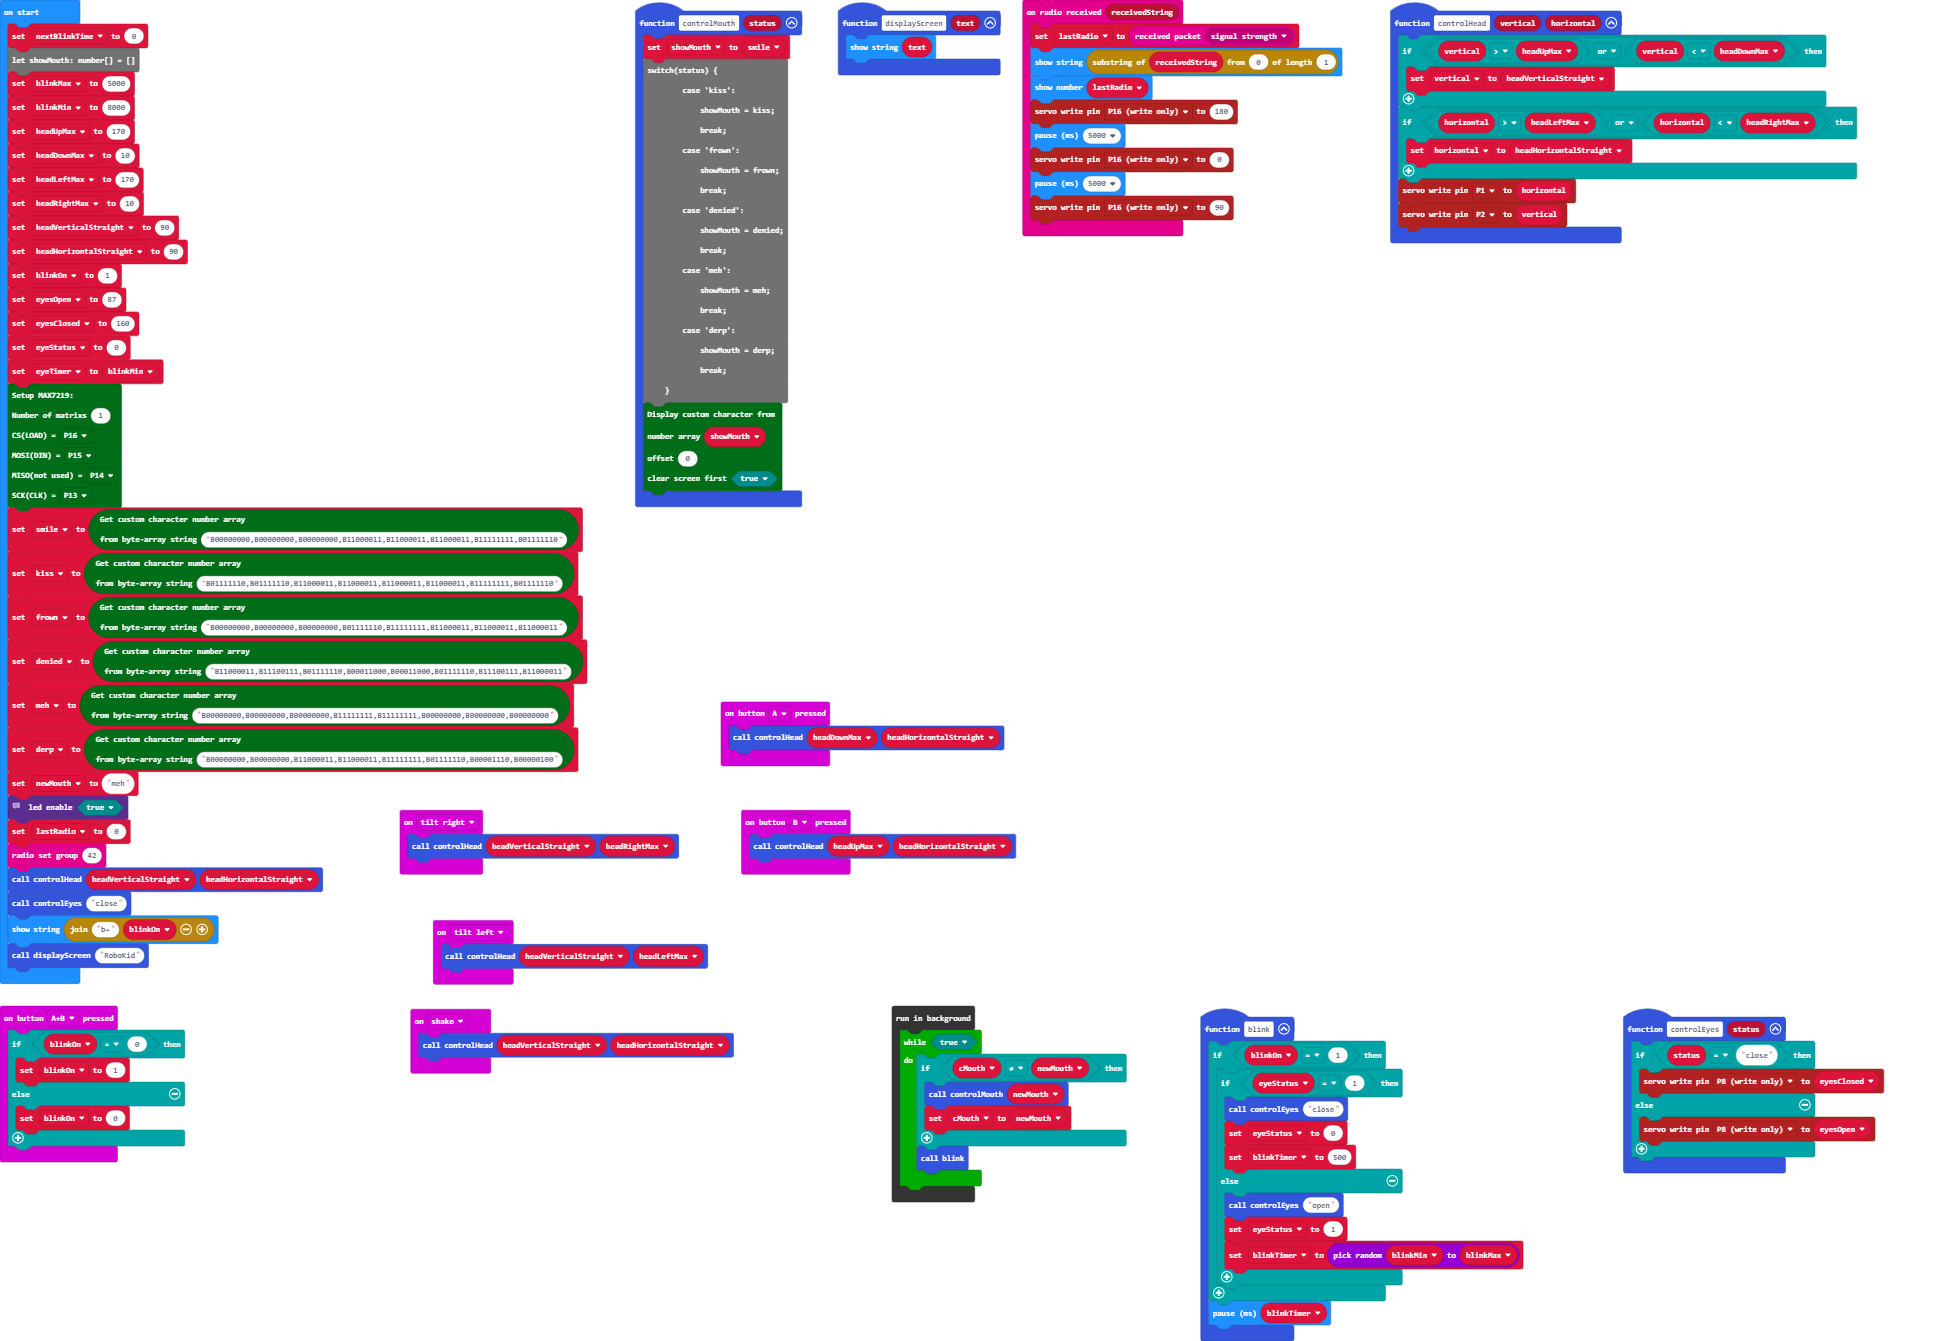
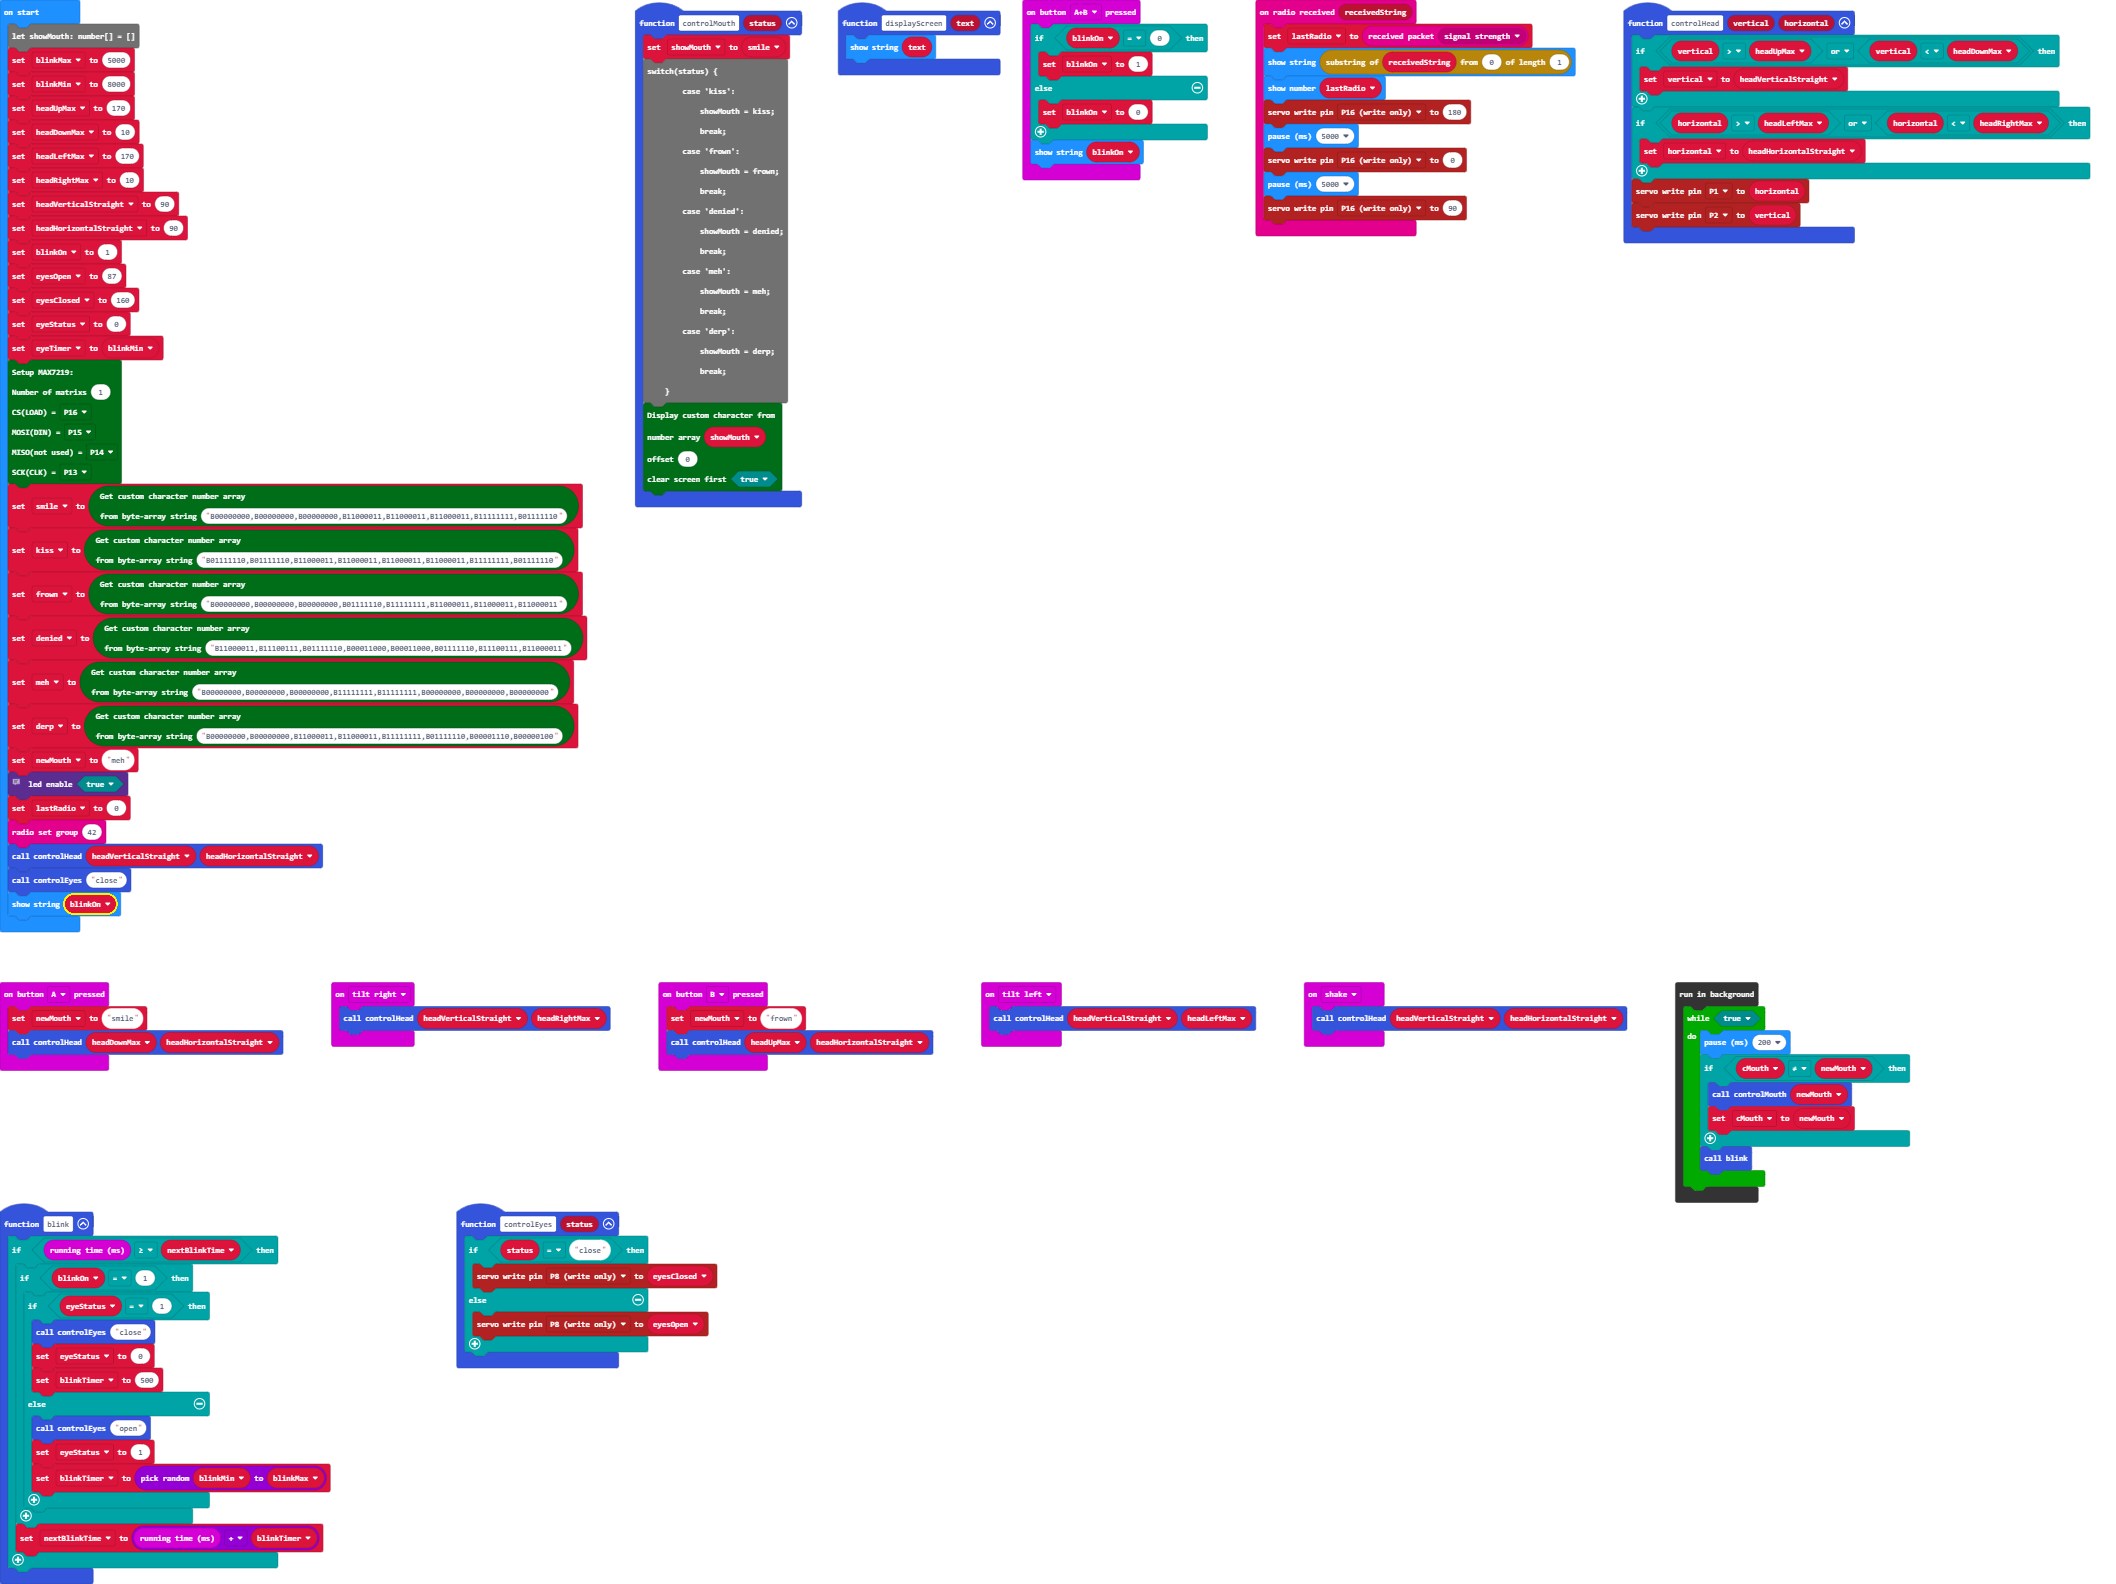
Updates background to have a short delay to avoid issues with other interrupts

Changed region(s): [[0.0, 0.0, 0.9917, 1.0], [0.6198, 0.7338, 0.8058, 1.0], [0.4339, 0.7338, 0.5888, 0.9172]]

diff --git a/main.ts b/main.ts
@@ -27,21 +27,24 @@ function displayScreen (text: string) {
     basic.showString(text)
 }
 input.onButtonPressed(Button.A, function () {
+    newMouth = "smile"
     controlHead(headDownMax, headHorizontalStraight)
 })
 function blink () {
-    if (blinkOn == 1) {
-        if (eyeStatus == 1) {
-            controlEyes("close")
-            eyeStatus = 0
-            blinkTimer = 500
-        } else {
-            controlEyes("open")
-            eyeStatus = 1
-            blinkTimer = randint(blinkMin, blinkMax)
+    if (input.runningTime() >= nextBlinkTime) {
+        if (blinkOn == 1) {
+            if (eyeStatus == 1) {
+                controlEyes("close")
+                eyeStatus = 0
+                blinkTimer = 500
+            } else {
+                controlEyes("open")
+                eyeStatus = 1
+                blinkTimer = randint(blinkMin, blinkMax)
+            }
         }
+        nextBlinkTime = input.runningTime() + blinkTimer
     }
-    basic.pause(blinkTimer)
 }
 input.onGesture(Gesture.TiltLeft, function () {
     controlHead(headVerticalStraight, headLeftMax)
@@ -59,6 +62,7 @@ input.onButtonPressed(Button.AB, function () {
     } else {
         blinkOn = 0
     }
+    basic.showString("" + (blinkOn))
 })
 radio.onReceivedString(function (receivedString) {
     lastRadio = radio.receivedPacket(RadioPacketProperty.SignalStrength)
@@ -71,6 +75,7 @@ radio.onReceivedString(function (receivedString) {
     pins.servoWritePin(AnalogPin.P16, 90)
 })
 input.onButtonPressed(Button.B, function () {
+    newMouth = "frown"
     controlHead(headUpMax, headHorizontalStraight)
 })
 input.onGesture(Gesture.Shake, function () {
@@ -93,7 +98,9 @@ let cMouth = ""
 let horizontal = 0
 let vertical = 0
 let blinkTimer = 0
+let nextBlinkTime = 0
 let lastRadio = 0
+let newMouth = ""
 let smile: number[] = []
 let eyeStatus = 0
 let eyesClosed = 0
@@ -107,7 +114,6 @@ let headDownMax = 0
 let headUpMax = 0
 let blinkMin = 0
 let blinkMax = 0
-let nextBlinkTime = 0
 let showMouth: number[] = []
 blinkMax = 5000
 blinkMin = 8000
@@ -147,7 +153,7 @@ let meh = max7219_matrix.getCustomCharacterArray(
 let derp = max7219_matrix.getCustomCharacterArray(
 "B00000000,B00000000,B11000011,B11000011,B11111111,B01111110,B00001110,B00000100"
 )
-let newMouth = "meh"
+newMouth = "meh"
 // const mouthShapes = {
 // smile: max7219_matrix.getCustomCharacterArray(
 // "B00000000,B00000000,B00000000,B11000011,B11000011,B11000011,B11111111,B01111110",
@@ -173,10 +179,10 @@ lastRadio = 0
 radio.setGroup(42)
 controlHead(headVerticalStraight, headHorizontalStraight)
 controlEyes("close")
-basic.showString("b=" + blinkOn)
-displayScreen("RoboKid")
+basic.showString("" + (blinkOn))
 control.inBackground(function () {
     while (true) {
+        basic.pause(200)
         if (cMouth != newMouth) {
             controlMouth(newMouth)
             cMouth = newMouth
